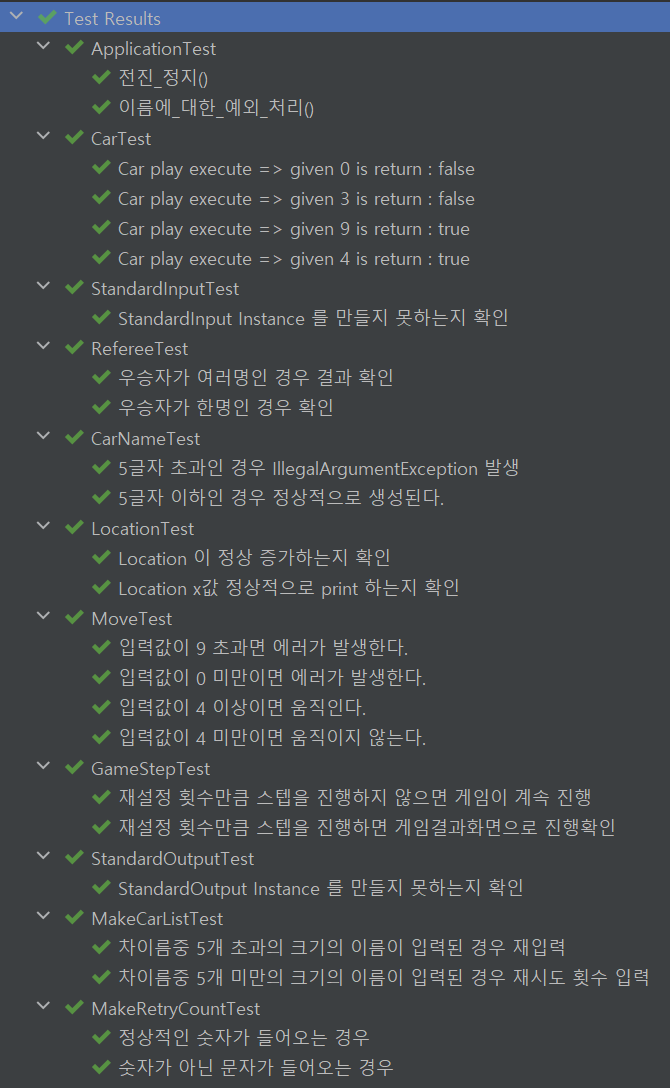
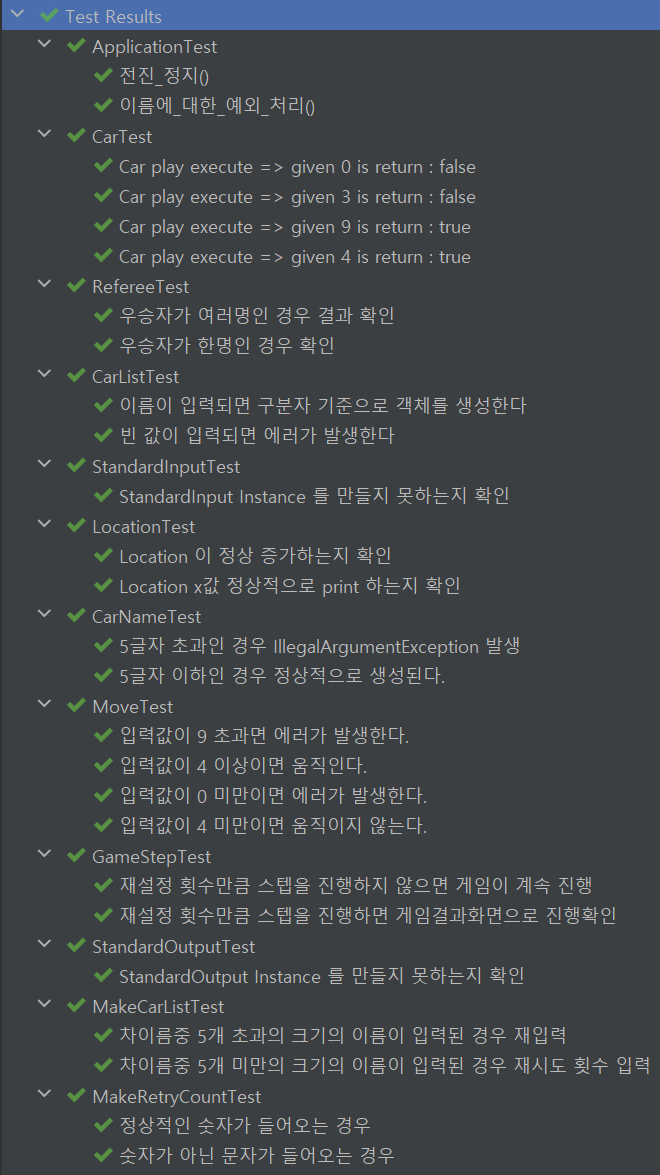
feat : CarList 일급 컬렉션 구현 및 리펙토링

Changed region(s): [[0.0, 0.0, 1.0, 1.0]]

diff --git a/src/test/java/racingcar/domain/MoveTest.java b/src/test/java/racingcar/domain/MoveTest.java
@@ -13,9 +13,10 @@ public class MoveTest {
         Assertions.assertThat(move.isMoved()).isFalse();
 
     }
+
     @Test
     @DisplayName("입력값이 4 이상이면 움직인다.")
-    void move_4_or_more(){
+    void move_4_or_more() {
         Move move = new Move();
         move.execute(4);
         Assertions.assertThat(move.isMoved()).isTrue();
@@ -23,17 +24,18 @@ public class MoveTest {
 
     @Test
     @DisplayName("입력값이 0 미만이면 에러가 발생한다.")
-    void move_less_than_0(){
+    void move_less_than_0() {
         Move move = new Move();
-        Assertions.assertThatThrownBy(()->move.execute(-1))
+        Assertions.assertThatThrownBy(() -> move.execute(-1))
                 .isInstanceOf(IllegalArgumentException.class)
                 .hasMessageContaining("0이상 9이하의 값을 입력해 주세요");
     }
+
     @Test
     @DisplayName("입력값이 9 초과면 에러가 발생한다.")
-    void move_greater_than_9(){
+    void move_greater_than_9() {
         Move move = new Move();
-        Assertions.assertThatThrownBy(()->move.execute(10))
+        Assertions.assertThatThrownBy(() -> move.execute(10))
                 .isInstanceOf(IllegalArgumentException.class)
                 .hasMessageContaining("0이상 9이하의 값을 입력해 주세요");
     }

diff --git a/src/test/java/racingcar/domain/CarListTest.java b/src/test/java/racingcar/domain/CarListTest.java
@@ -1,0 +1,33 @@
+package racingcar.domain;
+
+import static org.assertj.core.api.Assertions.assertThat;
+import static org.assertj.core.api.Assertions.assertThatIllegalArgumentException;
+import static org.junit.jupiter.api.Assertions.*;
+
+import java.util.List;
+
+import static org.junit.jupiter.api.Assertions.assertAll;
+
+import org.junit.jupiter.api.DisplayNameGeneration;
+import org.junit.jupiter.api.DisplayNameGenerator;
+import org.junit.jupiter.api.Test;
+
+@DisplayNameGeneration(DisplayNameGenerator.ReplaceUnderscores.class)
+public class CarListTest {
+    @Test
+    void 이름이_입력되면_구분자_기준으로_객체를_생성한다() {
+        String inputString = "abc,bcd,cde";
+        List<Car> carList = new CarList(inputString).getCarList();
+        assertAll(
+                () -> assertThat(carList.get(0).getCarName()).isEqualTo(new CarName("abc")),
+                () -> assertThat(carList.get(1).getCarName()).isEqualTo(new CarName("bcd")),
+                () -> assertThat(carList.get(2).getCarName()).isEqualTo(new CarName("cde"))
+        );
+    }
+
+    @Test
+    void 빈_값이_입력되면_에러가_발생한다() {
+        String inputString = "";
+        assertThatIllegalArgumentException().isThrownBy(() -> new CarList(inputString));
+    }
+}

diff --git a/src/test/java/racingcar/game/status/GameStepTest.java b/src/test/java/racingcar/game/status/GameStepTest.java
@@ -5,6 +5,7 @@ import static org.assertj.core.api.Assertions.assertThat;
 import java.util.ArrayList;
 import org.junit.jupiter.api.DisplayName;
 import org.junit.jupiter.api.Test;
+import racingcar.domain.CarList;
 import racingcar.game.GameContext;
 
 class GameStepTest {
@@ -12,7 +13,7 @@ class GameStepTest {
     @DisplayName("재설정 횟수만큼 스텝을 진행하면 게임결과화면으로 진행확인")
     void check_game_step_full() {
         GameContext gameContext = new GameContext();
-        gameContext.setCarList(new ArrayList<>());
+        gameContext.setCarList(new CarList("abc"));
         int retryCount = 5;
         gameContext.setRetryCount(retryCount);
         while (retryCount-- > 0) {
@@ -26,7 +27,7 @@ class GameStepTest {
     @DisplayName("재설정 횟수만큼 스텝을 진행하지 않으면 게임이 계속 진행")
     void check_game_step_ongoing() {
         GameContext gameContext = new GameContext();
-        gameContext.setCarList(new ArrayList<>());
+        gameContext.setCarList(new CarList("abc"));
         int retryCount = 5;
         gameContext.setRetryCount(retryCount);
         gameContext.increaseStep();

diff --git a/src/main/java/racingcar/game/status/MakeCarList.java b/src/main/java/racingcar/game/status/MakeCarList.java
@@ -1,33 +1,20 @@
 package racingcar.game.status;
 
-import java.util.ArrayList;
-import java.util.List;
-import racingcar.domain.Car;
+import racingcar.domain.CarList;
 import racingcar.game.GameContext;
 import racingcar.view.port.outbound.StandardOutput;
 import racingcar.view.status.EnterCarNameList;
 import racingcar.view.status.EnterRetryCount;
 
 public class MakeCarList implements Status {
-
-    public static final String DELIMITER = ",";
-
     @Override
     public Status next(GameContext gameContext) {
-        List<Car> carList = new ArrayList<>();
         try {
-            makeCarList(gameContext.getCarNameList(), carList);
-            gameContext.setCarList(carList);
+            gameContext.setCarList(new CarList(gameContext.getCarNameList()));
             return new EnterRetryCount();
         } catch (IllegalArgumentException e) {
             StandardOutput.Error(e.getMessage());
             return new EnterCarNameList();
-        }
-    }
-
-    private void makeCarList(String carNameList, List<Car> carList) {
-        for (String name : carNameList.split(DELIMITER)) {
-            carList.add(new Car(name));
         }
     }
 }

diff --git a/src/test/java/racingcar/domain/RefereeTest.java b/src/test/java/racingcar/domain/RefereeTest.java
@@ -27,13 +27,13 @@ public class RefereeTest {
         List<Car> carList = new ArrayList<>();
         carList.add(car);
         carList.add(car2);
-        Referee referee = new Referee(carList);
+        Referee referee = new Referee(new CarList(carList));
 
         //when
-        List<Car> winnerList = referee.getWinnerList();
+        CarList winnerList = referee.getWinnerList();
 
         //then
-        Assertions.assertThat(winnerList).contains(car2);
+        Assertions.assertThat(winnerList.getCarList()).contains(car2);
         mockUtils.close();
     }
 
@@ -50,13 +50,13 @@ public class RefereeTest {
         List<Car> carList = new ArrayList<>();
         carList.add(car);
         carList.add(car2);
-        Referee referee = new Referee(carList);
+        Referee referee = new Referee(new CarList(carList));
 
         //when
-        List<Car> winnerList = referee.getWinnerList();
+        CarList winnerList = referee.getWinnerList();
 
         //then
-        Assertions.assertThat(winnerList).contains(car, car2);
+        Assertions.assertThat(winnerList.getCarList()).contains(car, car2);
         mockUtils.close();
     }
 }

diff --git a/src/main/java/racingcar/game/GameContext.java b/src/main/java/racingcar/game/GameContext.java
@@ -1,7 +1,6 @@
 package racingcar.game;
 
-import java.util.List;
-import racingcar.domain.Car;
+import racingcar.domain.CarList;
 import racingcar.domain.Referee;
 import racingcar.game.status.Status;
 import racingcar.view.status.EnterCarNameList;
@@ -10,7 +9,7 @@ public class GameContext {
     Status status = new EnterCarNameList();
     Referee referee;
     private String carNameList;
-    private List<Car> carList;
+    private CarList carList;
     private String retryReadLine;
     private int retryCount;
     private int stepCount = 0;
@@ -27,11 +26,11 @@ public class GameContext {
         this.carNameList = carNameList;
     }
 
-    public List<Car> getCarList() {
+    public CarList getCarList() {
         return carList;
     }
 
-    public void setCarList(List<Car> carList) {
+    public void setCarList(CarList carList) {
         this.carList = carList;
     }
 
@@ -59,7 +58,7 @@ public class GameContext {
         stepCount++;
     }
 
-    public List<Car> judge(List<Car> carList) {
+    public CarList judge(CarList carList) {
         referee = new Referee(carList);
         return referee.getWinnerList();
     }

diff --git a/src/main/java/racingcar/domain/Referee.java b/src/main/java/racingcar/domain/Referee.java
@@ -4,25 +4,27 @@ import java.util.ArrayList;
 import java.util.List;
 
 public class Referee {
-    private final List<Car> winnerLIst = new ArrayList<>();
+    private final CarList winnerLIst;
 
-    public Referee(List<Car> carList) {
+    public Referee(CarList carList) {
         int max = 0;
-        for (Car car : carList) {
+        for (Car car : carList.getCarList()) {
             max = Math.max(car.getLocation().getX(), max);
         }
-        for (Car car : carList) {
-            confirmWinner(car, max);
+        List<Car> winners = new ArrayList<>();
+        for (Car car : carList.getCarList()) {
+            confirmWinner(car, max, winners);
         }
+        winnerLIst = new CarList(winners);
     }
 
-    private void confirmWinner(Car car, int max) {
+    private void confirmWinner(Car car, int max, List<Car> winners) {
         if (car.getLocation().getX() == max) {
-            winnerLIst.add(car);
+            winners.add(car);
         }
     }
 
-    public List<Car> getWinnerList() {
+    public CarList getWinnerList() {
         return this.winnerLIst;
     }
 }

diff --git a/src/main/java/racingcar/domain/CarName.java b/src/main/java/racingcar/domain/CarName.java
@@ -1,12 +1,14 @@
 package racingcar.domain;
 
+import java.util.Objects;
+
 public class CarName {
 
     public static final int CAR_NAME_MAX_SIZE = 5;
     private final String name;
 
     public CarName(String name) {
-        if (name.length() > CAR_NAME_MAX_SIZE) {
+        if (isNotValidName(name)) {
             throw new IllegalArgumentException("차 이름을 5자 이하로 입력해 주세요.");
         }
         this.name = name;
@@ -14,5 +16,26 @@ public class CarName {
 
     public String getName() {
         return name;
+    }
+
+    private boolean isNotValidName(String name) {
+        return name.length() == 0 || name.length() > CAR_NAME_MAX_SIZE;
+    }
+
+    @Override
+    public boolean equals(Object o) {
+        if (this == o) {
+            return true;
+        }
+        if (o == null || getClass() != o.getClass()) {
+            return false;
+        }
+        CarName carName = (CarName) o;
+        return Objects.equals(name, carName.name);
+    }
+
+    @Override
+    public int hashCode() {
+        return Objects.hash(name);
     }
 }

diff --git a/src/test/java/racingcar/domain/CarNameTest.java b/src/test/java/racingcar/domain/CarNameTest.java
@@ -3,22 +3,21 @@ package racingcar.domain;
 import static org.assertj.core.api.Assertions.assertThat;
 import static org.assertj.core.api.Assertions.assertThatThrownBy;
 
-import org.assertj.core.api.Assertions;
 import org.junit.jupiter.api.DisplayName;
 import org.junit.jupiter.api.Test;
 
 public class CarNameTest {
     @Test
     @DisplayName("5글자 이하인 경우 정상적으로 생성된다.")
-    void make_name_well_5_or_less(){
+    void make_name_well_5_or_less() {
         CarName carName = new CarName("apple");
         assertThat(carName.getName()).isEqualTo("apple");
     }
 
     @Test
     @DisplayName("5글자 초과인 경우 IllegalArgumentException 발생")
-    void make_name_fail_greater_than_5(){
-        assertThatThrownBy(()->new CarName("apples"))
+    void make_name_fail_greater_than_5() {
+        assertThatThrownBy(() -> new CarName("apples"))
                 .isInstanceOf(IllegalArgumentException.class)
                 .hasMessageContaining("차 이름을 5자 이하로 입력해 주세요.");
     }

diff --git a/src/main/java/racingcar/game/status/GameResult.java b/src/main/java/racingcar/game/status/GameResult.java
@@ -2,7 +2,7 @@ package racingcar.game.status;
 
 import java.util.List;
 import racingcar.domain.Car;
-import racingcar.domain.Referee;
+import racingcar.domain.CarList;
 import racingcar.game.GameContext;
 import racingcar.view.port.outbound.StandardOutput;
 
@@ -12,8 +12,8 @@ public class GameResult implements Status {
 
     @Override
     public Status next(GameContext gameContext) {
-        List<Car> winnerList = gameContext.judge(gameContext.getCarList());
-        StandardOutput.println(RESULT_PREFIX + makeResult(winnerList));
+        CarList winnerList = gameContext.judge(gameContext.getCarList());
+        StandardOutput.println(RESULT_PREFIX + makeResult(winnerList.getCarList()));
         return new Exit();
     }
 

diff --git a/src/test/java/racingcar/domain/LocationTest.java b/src/test/java/racingcar/domain/LocationTest.java
@@ -9,7 +9,7 @@ import org.junit.jupiter.api.Test;
 public class LocationTest {
     @Test
     @DisplayName("Location 이 정상 증가하는지 확인")
-    void increase_test(){
+    void increase_test() {
         Location location = new Location();
         location.apply(true);
         assertThat(location.getX()).isEqualTo(1);
@@ -17,7 +17,7 @@ public class LocationTest {
 
     @Test
     @DisplayName("Location x값 정상적으로 print 하는지 확인")
-    void print_test(){
+    void print_test() {
         Location location = new Location();
         location.apply(true);
         assertThat(location.print()).isEqualTo("-");

diff --git a/src/main/java/racingcar/domain/CarList.java b/src/main/java/racingcar/domain/CarList.java
@@ -1,0 +1,23 @@
+package racingcar.domain;
+
+import java.util.ArrayList;
+import java.util.List;
+
+public class CarList {
+    private static final String DELIMITER = ",";
+    private final List<Car> carList = new ArrayList<>();
+
+    public CarList(String carNameList) {
+        for (String name : carNameList.split(DELIMITER)) {
+            carList.add(new Car(name));
+        }
+    }
+
+    public CarList(List<Car> winners) {
+        carList.addAll(winners);
+    }
+
+    public List<Car> getCarList() {
+        return carList;
+    }
+}
